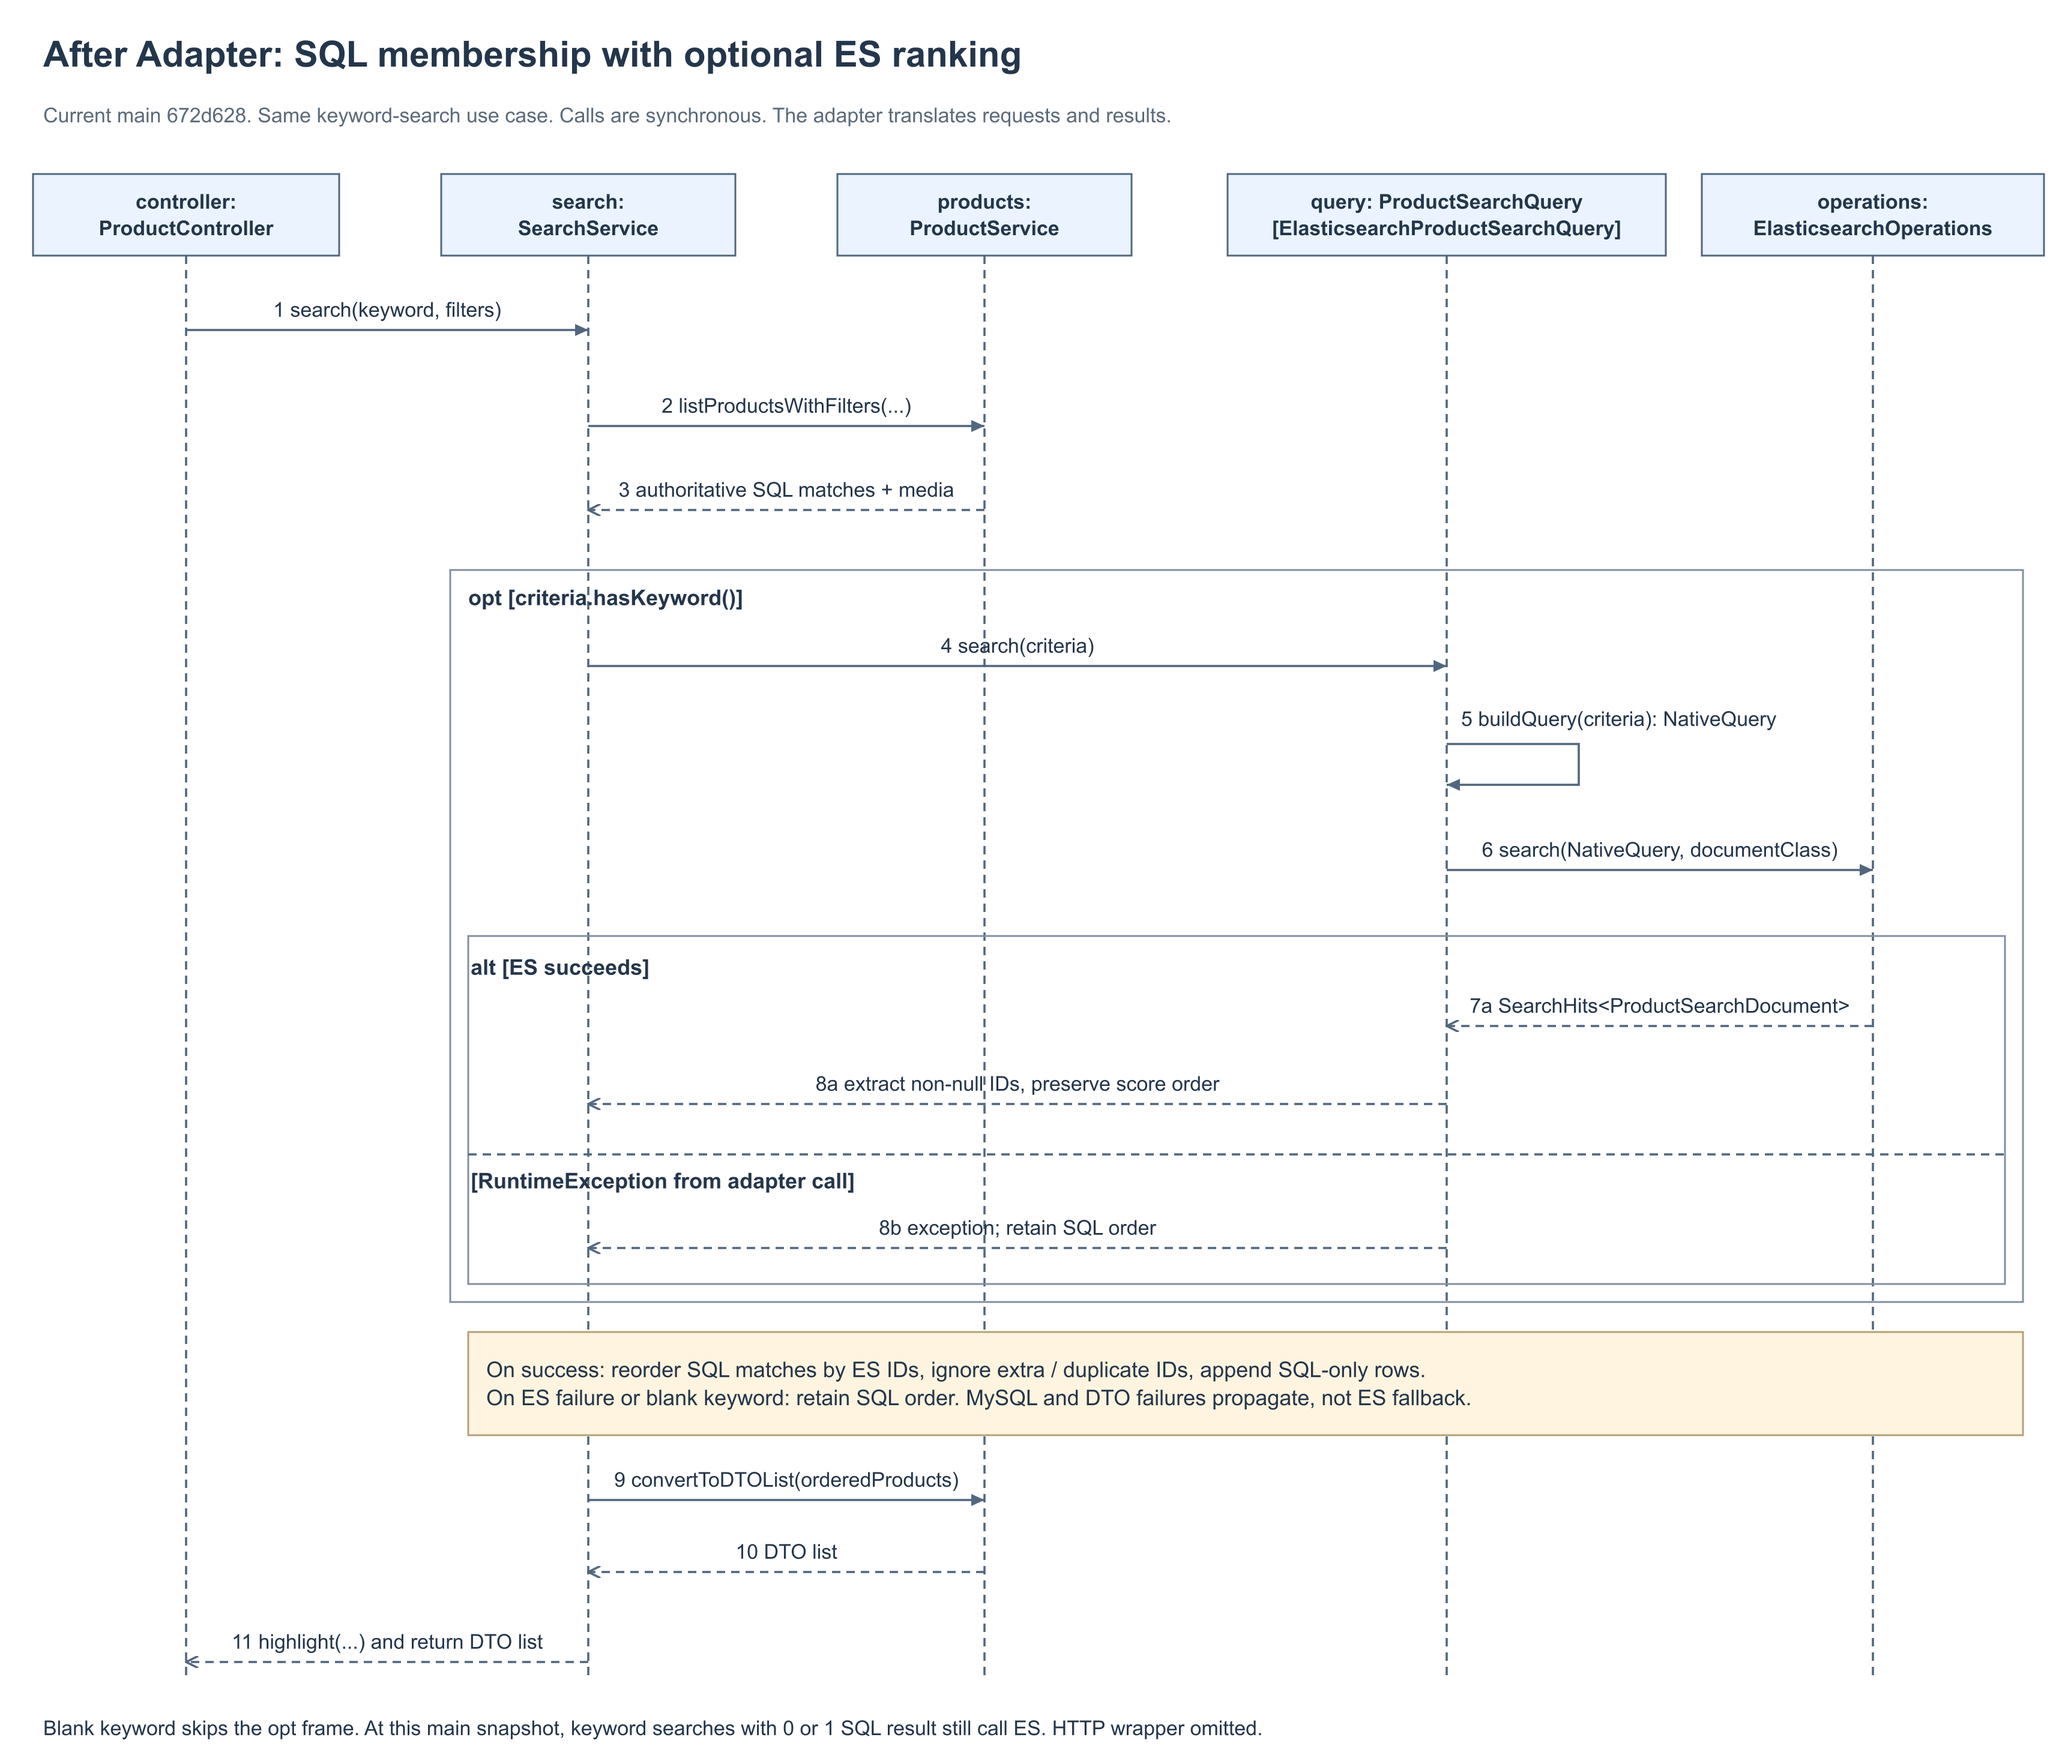
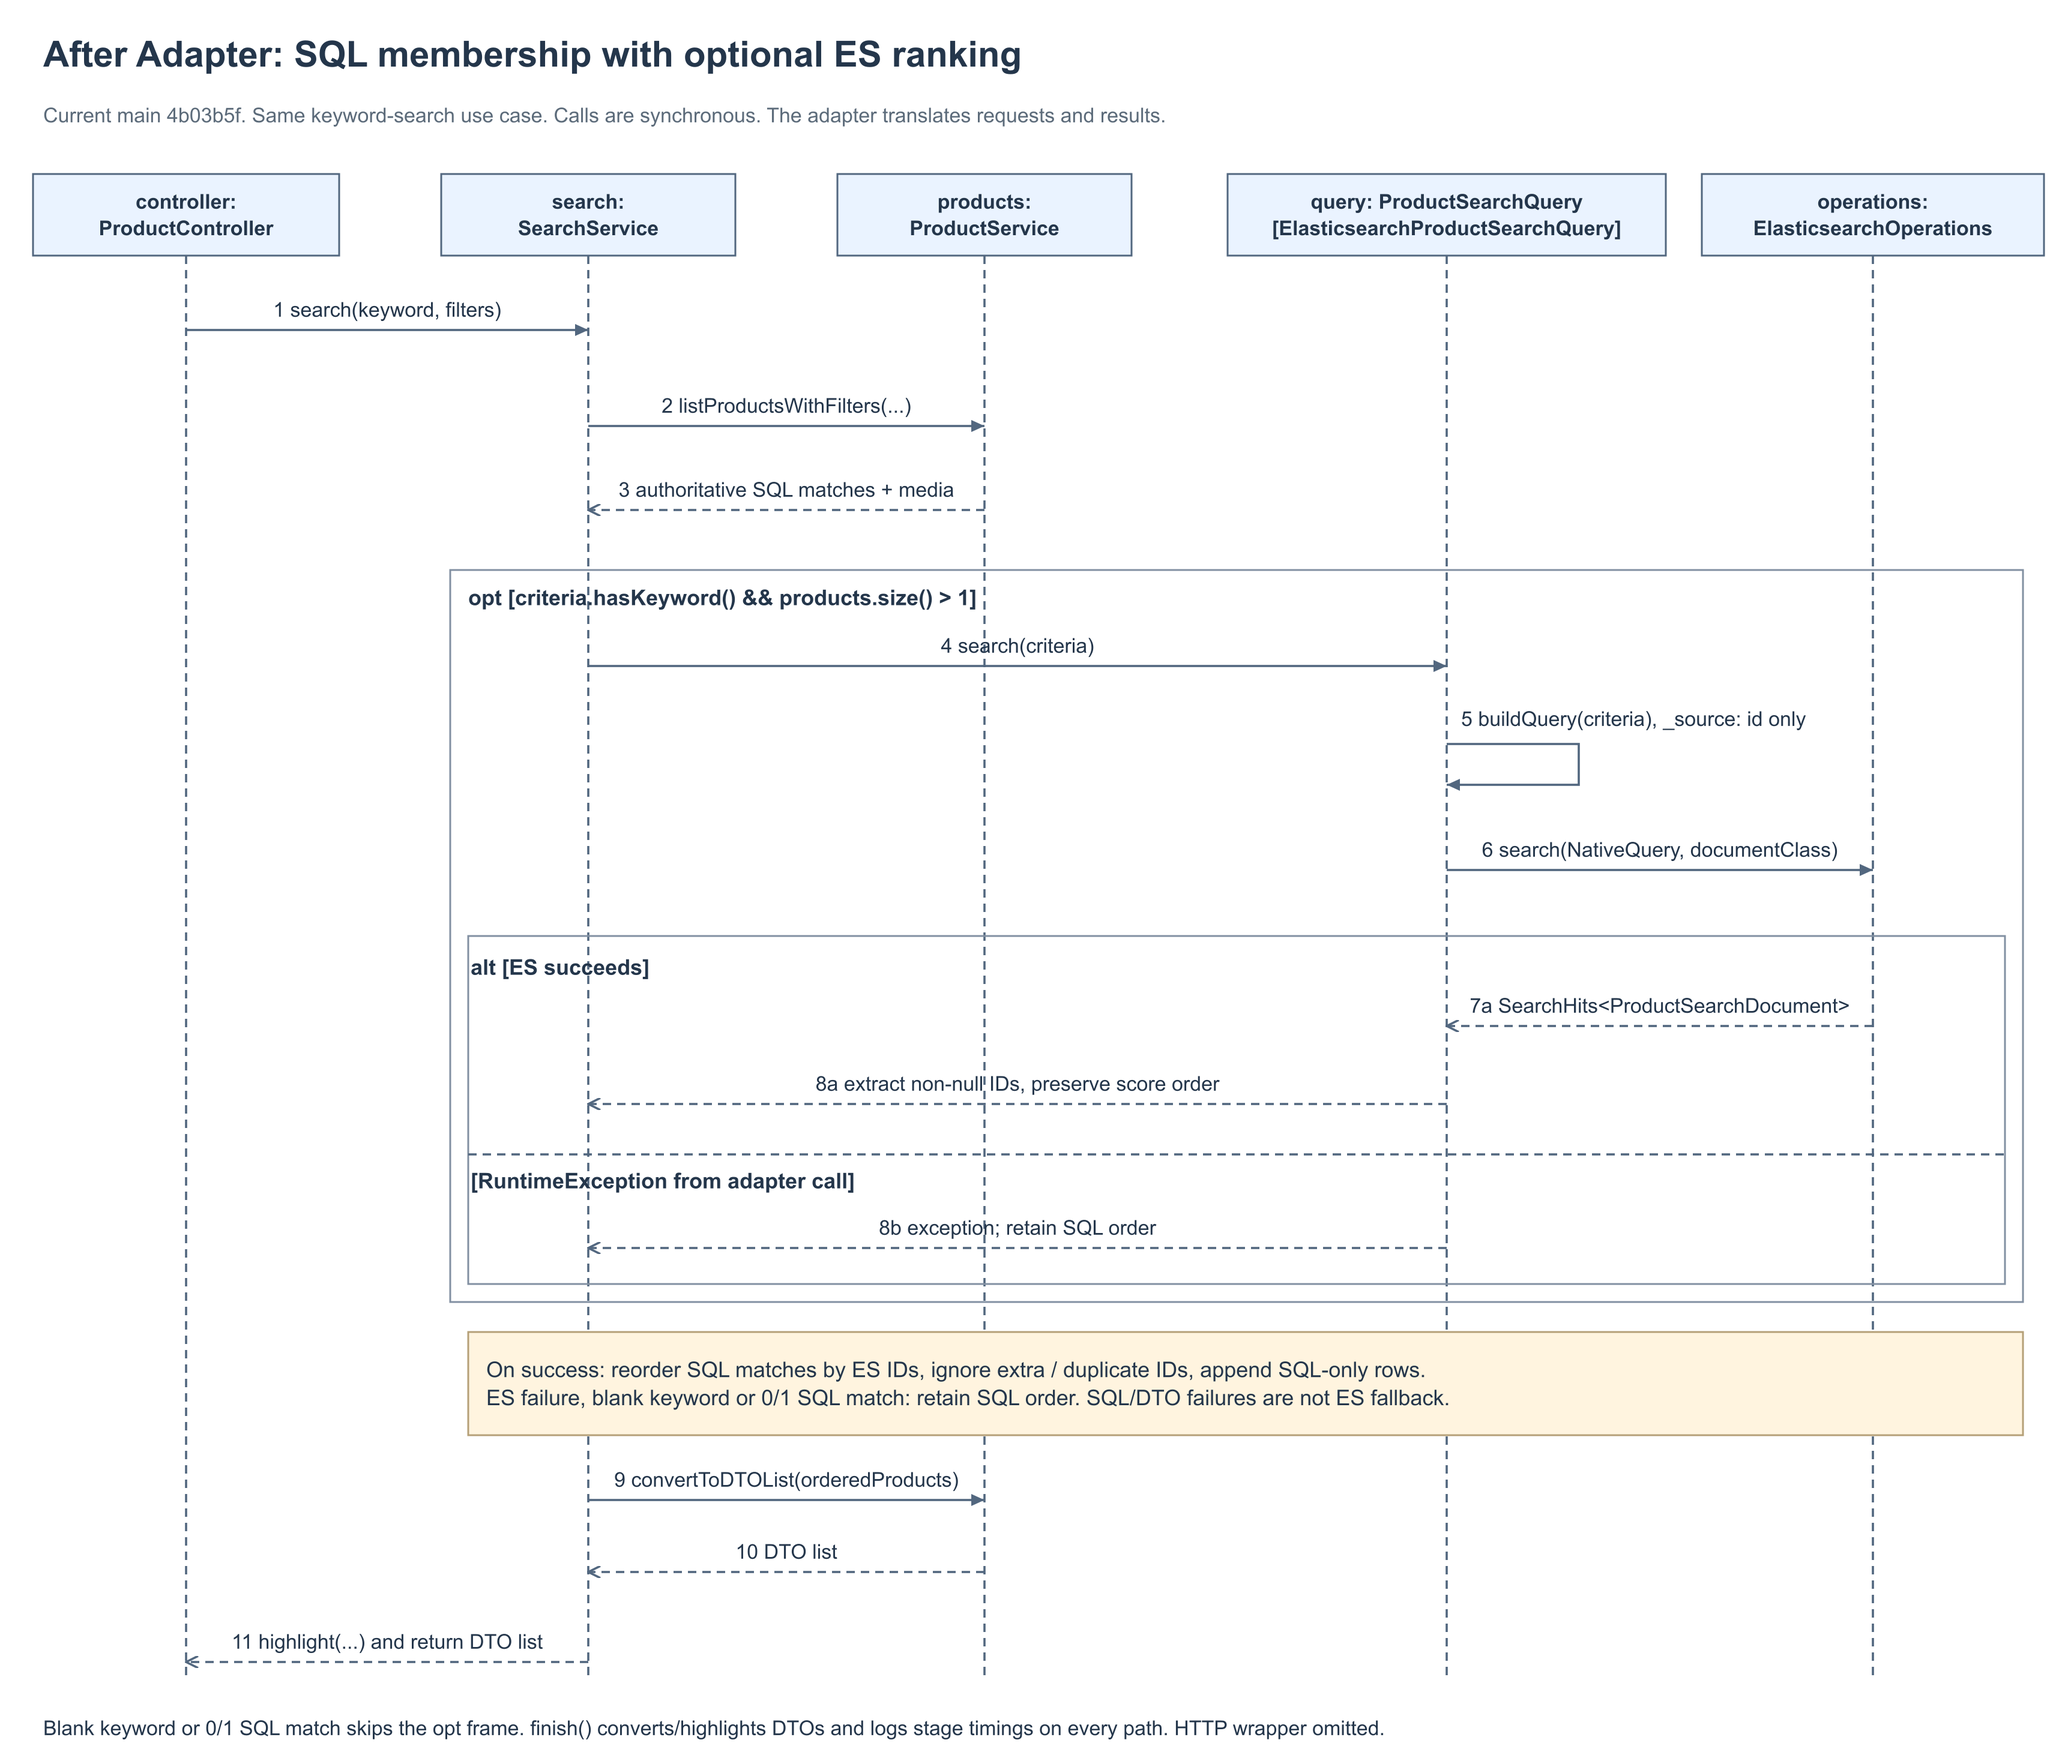
Add the M2 UML pack: keyword search use case, and the Adapter write-up after #146
Search listings by keyword (report 3.4.2), drawn from the code on main:
analysis class and sequence diagrams, design class and sequence diagrams.
The sequence diagrams carry the three paths SearchService takes: two or more
matches ranked by Elasticsearch, a search-engine failure that keeps the SQL
order, and zero or one match that skips the engine. The design follows
transition strategies S0-S2; S3 does not apply to a read-only use case.

The Adapter write-up (3.5.2) and its two after-diagrams now describe main
after #146: zero/one-match searches skip Elasticsearch, the query returns
only the id field, and each search records stage timings.

diff --git a/docs/design-patterns/M2-yuan-cheng.md b/docs/design-patterns/M2-yuan-cheng.md
@@ -4,7 +4,7 @@
 
 **Scope:** WP2 listing search and search-index synchronisation
 
-**Code baseline:** `main` at [`672d628`](https://github.com/NUS-SE-34FT-GROUP4/c2cTradePlatform/commit/672d6281572c8044c3b24bb6d68e129da34903a9), checked 23 October 2026.
+**Code baseline:** `main` at [`4b03b5f`](https://github.com/NUS-SE-34FT-GROUP4/c2cTradePlatform/commit/4b03b5f81cdb5013b01b315340e576b153283118), checked 23 October 2026, including merged search-overhead PR #146.
 
 **Deliverables:** this explanation and four UML figures, each with editable draw.io source and a PNG preview.
 
@@ -76,7 +76,7 @@ snapshot, not to pending feature branches.
 | [`service/SearchService.java`](../../src/main/java/sg/edu/nus/iss/c2csectrade/service/SearchService.java), constructor and `search()` | Depends on `ProductSearchQuery`, retrieves authoritative SQL matches first, applies ES ID ordering, handles query exceptions, then converts and highlights DTOs. |
 | [`service/search/ProductSearchCriteria.java`](../../src/main/java/sg/edu/nus/iss/c2csectrade/service/search/ProductSearchCriteria.java) | Application record for keyword, price bounds, condition, location and categories. Normalises blank strings and parses categories. Contains no ES query type. |
 | [`ProductSearchQuery.java`](../../src/main/java/sg/edu/nus/iss/c2csectrade/service/search/ProductSearchQuery.java) | Read-side target interface returning `List<Long>`, not `SearchHits`. |
-| [`ElasticsearchProductSearchQuery.java`](../../src/main/java/sg/edu/nus/iss/c2csectrade/service/search/ElasticsearchProductSearchQuery.java), `buildQuery()` / `search()` | Builds boosted `multi_match` (`name^4`, `category^2`, `description`) and catalogue filters; requests at most 1,000 hits; extracts non-null IDs in score order. |
+| [`ElasticsearchProductSearchQuery.java`](../../src/main/java/sg/edu/nus/iss/c2csectrade/service/search/ElasticsearchProductSearchQuery.java), `buildQuery()` / `search()` | Builds boosted `multi_match` (`name^4`, `category^2`, `description`) and catalogue filters; requests at most 1,000 hits with `_source` limited to `id`; extracts non-null IDs in score order. Filtering and scoring still use the full indexed fields. |
 | [`ProductSearchIndex.java`](../../src/main/java/sg/edu/nus/iss/c2csectrade/service/search/ProductSearchIndex.java) | Write-side target using `Product`, collections and IDs. No ES mapping or index type escapes through this interface. |
 | [`ElasticsearchProductSearchIndex.java`](../../src/main/java/sg/edu/nus/iss/c2csectrade/service/search/ElasticsearchProductSearchIndex.java) | Ensures index mappings, maps and saves searchable products, deletes documents and rebuilds the index. Logs ES runtime failures on the supported write paths. |
 | [`ProductSearchDocument.java`](../../src/main/java/sg/edu/nus/iss/c2csectrade/service/search/ProductSearchDocument.java), `from()` | ES projection for index `products`. Converts seller ID, price to `Double`, available stock and timestamps, alongside searchable fields. MySQL remains canonical. |
@@ -87,12 +87,15 @@ snapshot, not to pending feature branches.
 
 1. `SearchService` obtains SQL matches through `ProductService` and the mapper. This query
    remains authoritative even when Elasticsearch is healthy.
-2. For a nonblank keyword, it calls `ProductSearchQuery.search(criteria)`. The concrete
-   adapter builds the ES query and translates the hits into IDs.
+2. For a nonblank keyword with at least two SQL matches, it calls
+   `ProductSearchQuery.search(criteria)`. Zero or one SQL match needs no ranking and skips
+   ES. The concrete adapter builds the ES query and translates the hits into IDs.
 3. The service reorders only the SQL matches. Extra or duplicate ES IDs cannot add products;
    SQL rows missing from ES are appended in their original SQL order.
 4. If the adapter throws a `RuntimeException`, the service retains the SQL order. Blank
-   keywords bypass ES. DTO conversion and highlighting still apply.
+   keywords also bypass ES. All paths reach `finish()`, which converts DTOs, applies
+   highlighting and logs SQL/media, ES, DTO/highlighting and total elapsed time without
+   logging the query text. The zero/one-result shortcut preserves this processing.
 5. MySQL failures and DTO-conversion failures are outside the ES fallback boundary and
    are not disguised as successful degradation.
 
@@ -152,12 +155,13 @@ where explicitly noted. Native draw.io objects remain editable, including text a
 - **Consistency has limits:** MySQL owns result membership, while a stale/missing index can
   still change ranking quality. Failed index events have no durable retry or outbox.
   Startup rebuild deletes and recreates the index, so it is not a zero-downtime reindex.
-- **No automatic performance claim:** SQL and ES are still sequential. The ES query window
-  is 1,000, while SQL-only matches are appended; the HTTP API is not paginated. Every
-  keyword request retries ES after an outage, with no circuit breaker in this code.
-- **Snapshot boundary:** at `672d628`, keyword searches with zero or one SQL match still
-  call ES and the adapter retrieves full search documents before extracting IDs. The
-  separate search-overhead PR is not treated here as merged main behaviour.
+- **No automatic performance claim:** SQL and ES remain sequential when ranking is needed.
+  The ES query window is 1,000, while SQL-only matches are appended; the HTTP API is not
+  paginated. Keyword requests with at least two SQL matches retry ES after an outage,
+  with no circuit breaker in this code.
+- **Merged optimisation boundary:** PR #146 skips ES for zero/one SQL match, limits ES
+  response `_source` to `id`, and records stage timings. These changes reduce unnecessary
+  work and expose where time is spent; this write-up does not claim a measured P95 gain.
 - **Pattern versus resilience policy:** Adapter isolates the vendor API. SQL fallback,
   membership reconciliation and after-commit coordination are additional application
   policies, not guarantees automatically provided by the pattern.
@@ -169,17 +173,17 @@ performance benchmark, deployment or fault-injection run was executed for this w
 
 | Test file | Relevant assertions |
 |---|---|
-| `service/search/ElasticsearchProductSearchQueryTest.java` | Preserves ES hit order as IDs, builds keyword boosts and filters, enforces the result window, rejects missing keywords. |
+| `service/search/ElasticsearchProductSearchQueryTest.java` | Preserves ES hit order as IDs, builds keyword boosts and filters, enforces the result window and ID-only source filter, rejects missing keywords. |
 | `service/search/ElasticsearchProductSearchIndexTest.java` | Creates mapping before save, rebuild removes stale index, deletes documents, avoids saving inactive listings, tolerates ES write outage. |
 | `service/search/ProductSearchDocumentTest.java` | Maps the canonical product into the search projection. |
 | `service/search/ProductIndexCoordinatorTest.java` | Startup rebuild, committed-product upsert, deletion of missing/delisted products and startup failure tolerance. |
-| `service/SearchServiceTest.java` | SQL membership, ES ordering/fallback/retry, blank keyword bypass, missing/extra/duplicate hits, result-window preservation, SQL/DTO failure propagation and highlighting. |
+| `service/SearchServiceTest.java` | SQL membership, ES ordering/fallback/retry, blank keyword and zero/one-match bypass, missing/extra/duplicate hits, result-window preservation, SQL/DTO failure propagation, highlighting and stage timing output. |
 | `integration/SearchParityIT.java` | Real ES outage/recovery scenario and stale/missing documents against MySQL-backed results. Reading this test is not a claim that it was rerun for these diagrams. |
 
 Implementation milestones: [`1993500`](https://github.com/NUS-SE-34FT-GROUP4/c2cTradePlatform/commit/1993500)
 introduced index synchronisation; [`a07aa75`](https://github.com/NUS-SE-34FT-GROUP4/c2cTradePlatform/commit/a07aa75)
 introduced ranked query integration. The after figures describe the later main baseline,
-including subsequent membership-parity fixes, rather than attributing every improvement
+including subsequent membership-parity fixes and PR #146, rather than attributing every improvement
 to the original Adapter change.
 
 ## 7. Short presentation explanation
